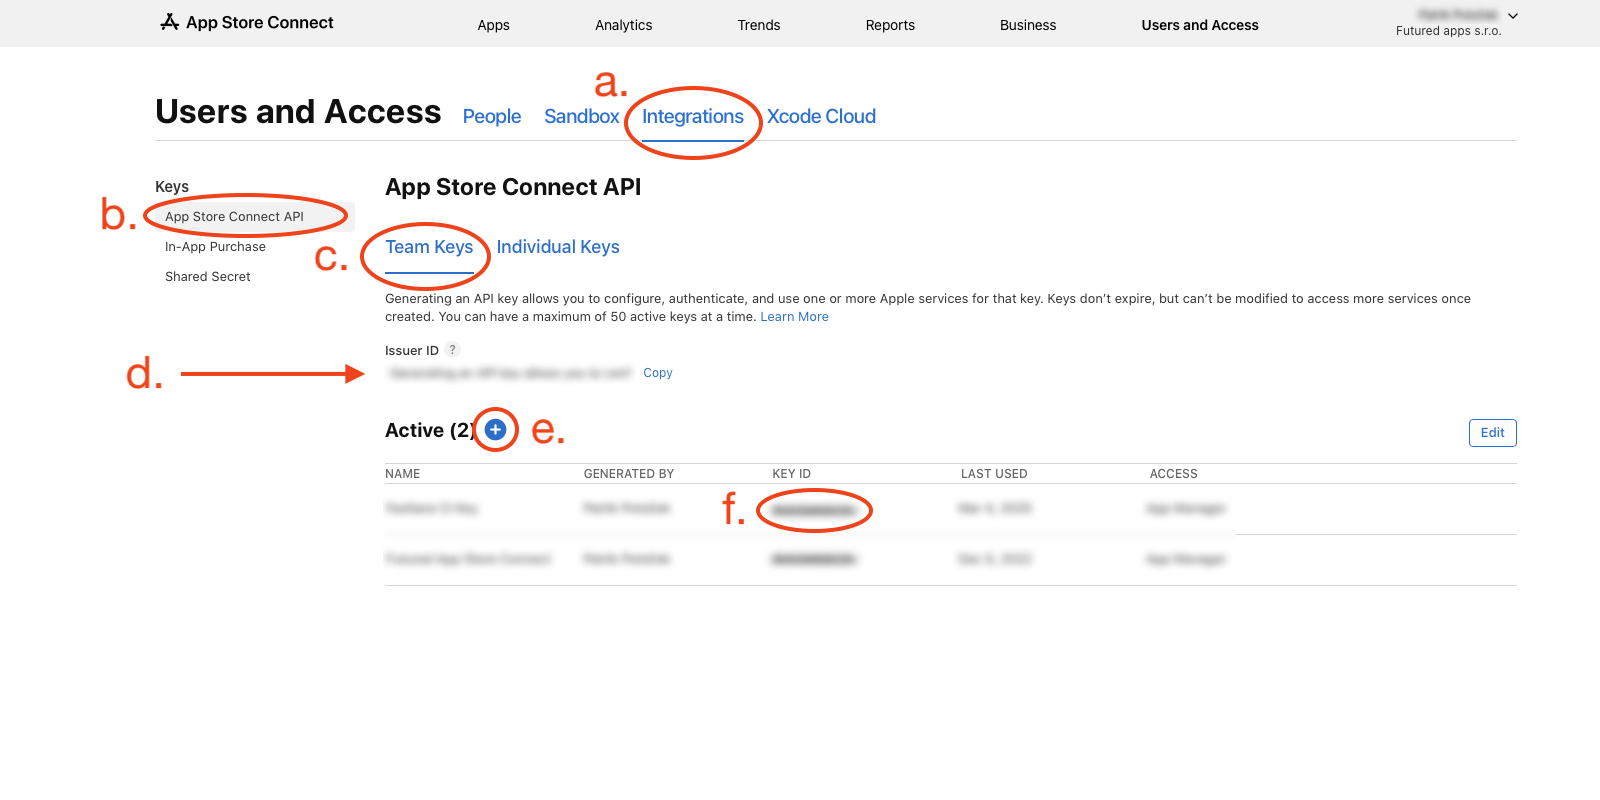
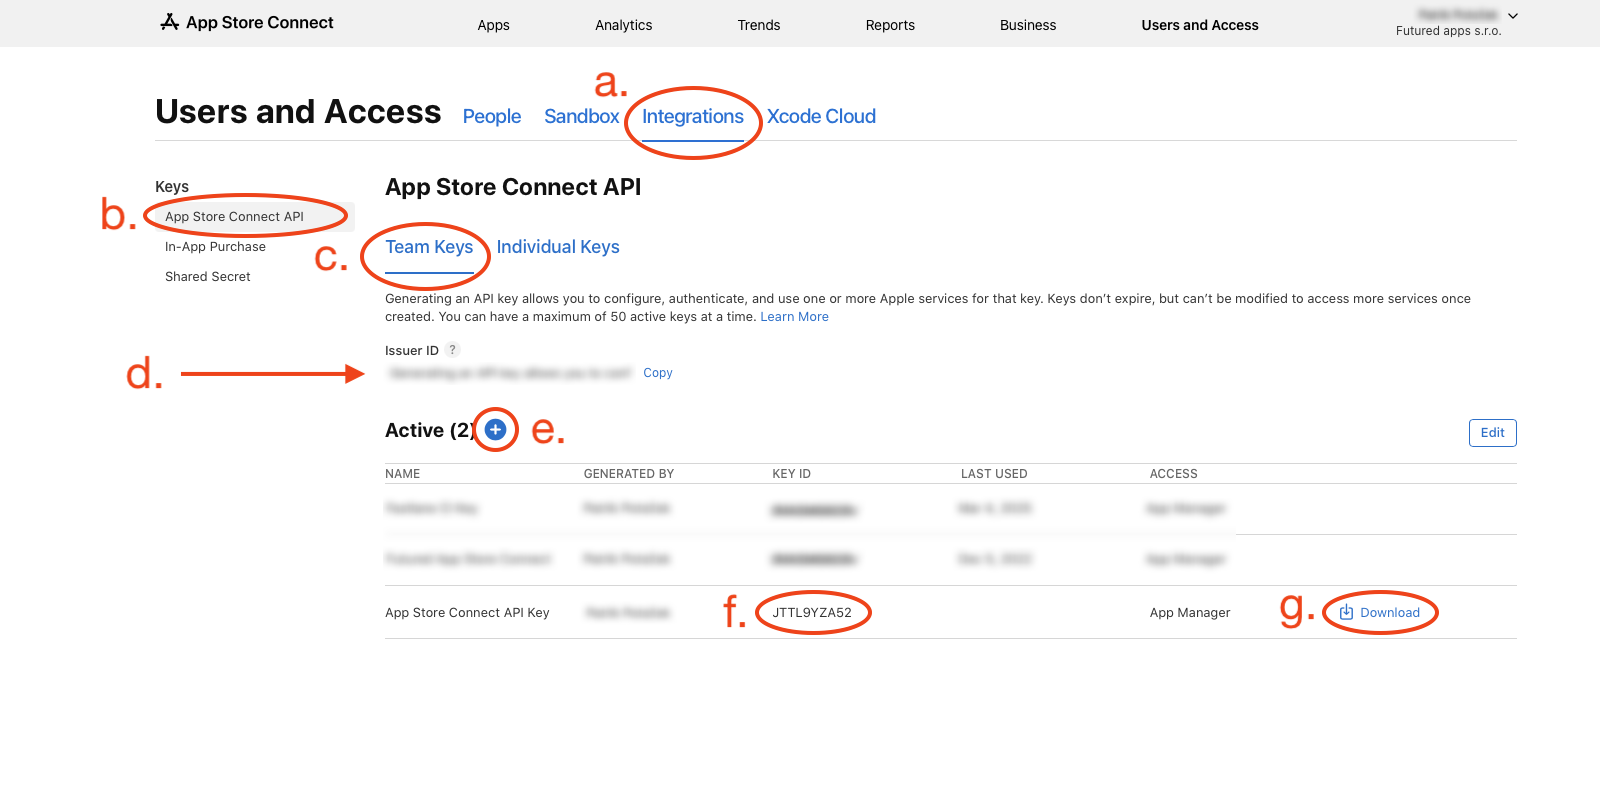
Complete Customer's account tutorial

diff --git a/docs/Teams/iOS/ios_customer_account.md b/docs/Teams/iOS/ios_customer_account.md
@@ -44,7 +44,7 @@ To establish our CI flow and be able to deliver builds to customer's App Store C
 
 2. create App Store Connect API key
 
-    !!! note "Steps"
+    ??? note "Steps"
     
         - go to [App Store Connect](https://appstoreconnect.apple.com) and login
         - if your account is in more organizations make sure the correct one is selected
@@ -53,11 +53,24 @@ To establish our CI flow and be able to deliver builds to customer's App Store C
             ![Step 1](Resources/ios_customer_account_1.png){ width="900" }
             
         - select:
+        
+            ![Step 5](Resources/ios_customer_account_5.png){ width="900" }
+        
             1. `Integrations`
             2. `App Store Connect API`
             3. `Team Keys`
             4. copy `Issuer ID` and save it to company's Bitwarden (see for example `Futured App Store Connect API Key` entry, don't forget to select `iOS` and `Operations` collections)
-            4. click `+` button
-            5. ccc
-        
-            ![Step 1](Resources/ios_customer_account_5.png){ width="900" }
+            5. click `+` button, fill key name (there's no naming convention), `App Manager` access role and click `Generate` button
+            
+                ![Step 6](Resources/ios_customer_account_6.png){ width="500" }
+                
+                !!! info "Access"
+
+                    We need `App Manager` access to be able to maintain app submission. For more information about App Store Connect roles see [documentation](https://developer.apple.com/help/app-store-connect/reference/role-permissions/).
+                
+                    We also need access to Certificates, Identifiers & Profiles to be able to properly setup out CI flow via Fastlane. For more information about Fastlane see [documentation](https://docs.fastlane.tools/).
+            
+            6. new key will appear in the list, please copy `KEY ID` and save it to company's Bitwarden (to the same entry as in step `d.`)
+            7. key is downloadable only once, please download it and save it to company's Bitwarden (to the same entry as in step `d.`)
+            
+                ![Step 7](Resources/ios_customer_account_7.png){ width="500" }
